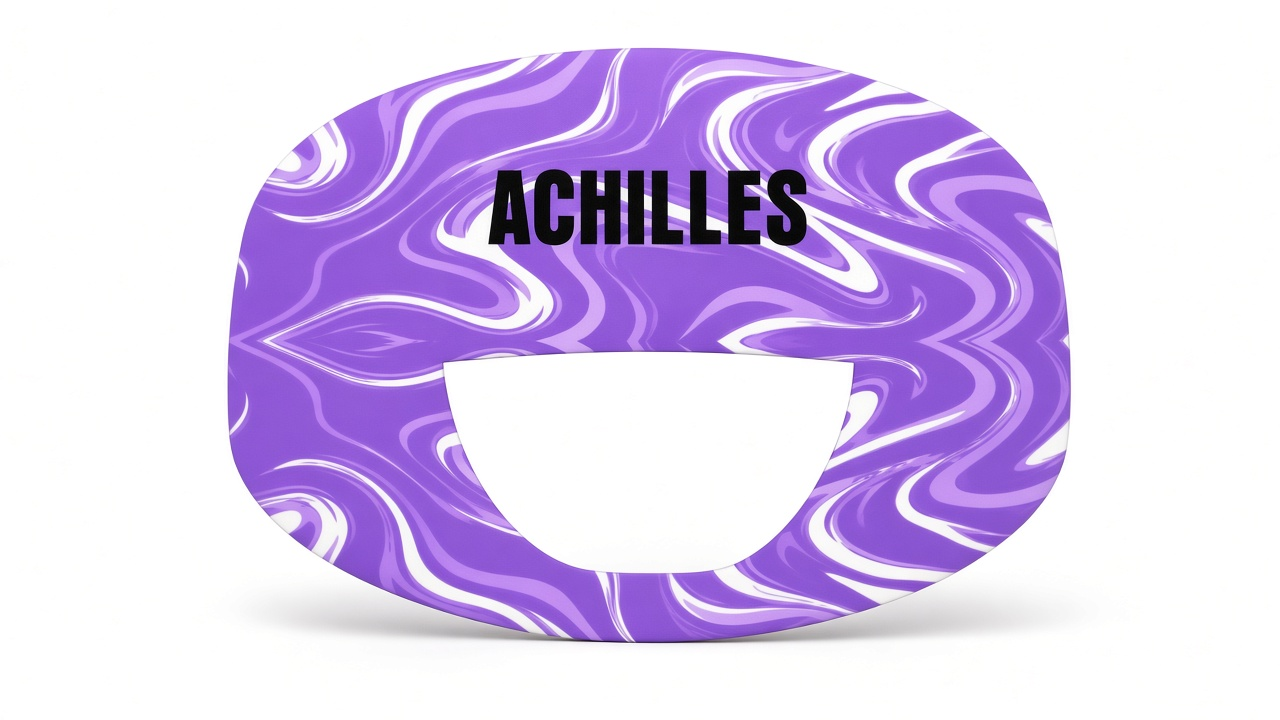
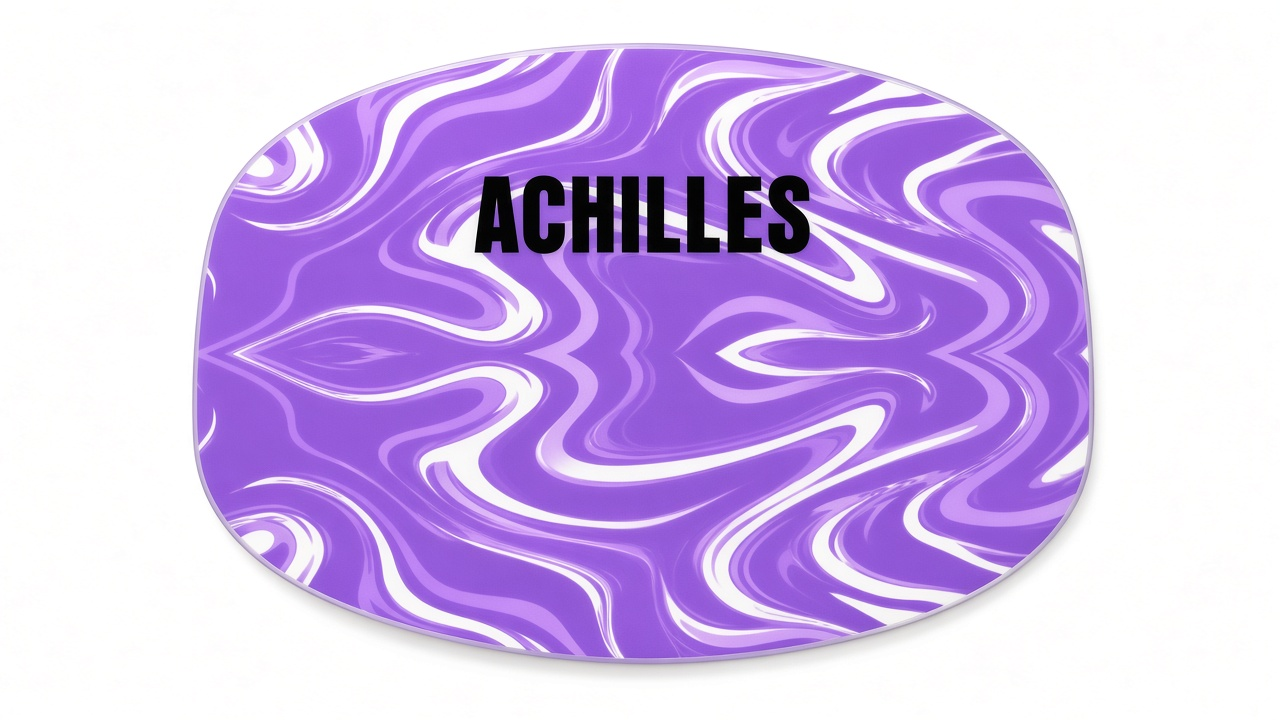
Remove decorative shell gap; add solid shells and natural-skin worn shots

diff --git a/src/App.tsx b/src/App.tsx
@@ -1,5 +1,5 @@
 import { useEffect, useState } from "react";
-import { shells, strapFeatures, type Shell } from "./data";
+import { shells, strapFeatures, wornGallery, type Shell } from "./data";
 
 export default function App() {
   const [activeId, setActiveId] = useState(shells[0].id);
@@ -21,6 +21,7 @@ export default function App() {
         <nav className="nav">
           <a href="#strap">Strap</a>
           <a href="#shells">Shells</a>
+          <a href="#worn">Worn</a>
           <a href="#system">System</a>
         </nav>
       </header>
@@ -30,6 +31,7 @@ export default function App() {
         <StrapSection />
         <ShellsSection active={active} onSelect={setActiveId} />
         <WornSection shell={active} />
+        <WornGallerySection />
         <SystemSection />
       </main>
 
@@ -126,8 +128,8 @@ function ShellsSection({
       <div className="section-head">
         <h2>Five fashion shells</h2>
         <p>
-          Snap-on covers pulled from ACHILLES pattern and logo language —
-          rainbow waves, marble swirls, warrior marks.
+          Solid continuous shells — no decorative cutout. Patterns and logos
+          from ACHILLES: rainbow waves, marble swirls, warrior marks.
         </p>
       </div>
 
@@ -203,9 +205,6 @@ function ShellsSection({
 }
 
 function WornSection({ shell }: { shell: Shell }) {
-  const wornImage = shell.wornImage ?? shell.image;
-  const isFlat = !shell.wornImage;
-
   return (
     <section className="section worn">
       <div className="worn-panel">
@@ -213,8 +212,8 @@ function WornSection({ shell }: { shell: Shell }) {
           <h2>On court</h2>
           <p>
             Chassis stays black and quiet. The{" "}
-            <em>{shell.name}</em> shell carries the brand — swap it when the
-            uniform changes.
+            <em>{shell.name}</em> shell carries the brand — continuous face, no
+            fake gap. Support comes from the inner pad on the tendon.
           </p>
           <ul>
             <li>Sits below the kneecap, not around the whole joint</li>
@@ -222,17 +221,35 @@ function WornSection({ shell }: { shell: Shell }) {
             <li>Shells remove for wash or travel without tools</li>
           </ul>
         </div>
-        <figure className={`worn-shot ${isFlat ? "flat" : ""}`}>
+        <figure className="worn-shot">
           <img
             key={shell.id}
-            src={wornImage}
-            alt={
-              isFlat
-                ? `${shell.name} snap-on shell`
-                : `ACHILLES strap worn with ${shell.name} shell`
-            }
+            src={shell.wornImage}
+            alt={`ACHILLES strap worn with ${shell.name} shell on a human knee`}
           />
         </figure>
+      </div>
+    </section>
+  );
+}
+
+function WornGallerySection() {
+  return (
+    <section className="section gallery" id="worn">
+      <div className="section-head">
+        <h2>On a real knee</h2>
+        <p>
+          Same chassis, five solid shells — worn below the patella on natural
+          skin. No decorative cutout; the pad does the work from the inside.
+        </p>
+      </div>
+      <div className="worn-gallery">
+        {wornGallery.map((shot) => (
+          <figure key={shot.src} className="gallery-card">
+            <img src={shot.src} alt={shot.label} />
+            <figcaption>{shot.label}</figcaption>
+          </figure>
+        ))}
       </div>
     </section>
   );
@@ -262,8 +279,9 @@ function SystemSection() {
           <div>
             <h3>Snap the shell</h3>
             <p>
-              Align the four posts. Press until you feel the click. The bottom
-              cutout clears the pad so pressure stays consistent.
+              Align the four posts. Press until you feel the click. The shell is
+              a solid face — the soft silicone pad on the inner liner is what
+              loads the tendon.
             </p>
           </div>
         </li>

diff --git a/src/data.ts b/src/data.ts
@@ -5,7 +5,7 @@ export type Shell = {
   logo: string;
   palette: string[];
   image: string;
-  wornImage?: string;
+  wornImage: string;
   notes: string;
 };
 
@@ -19,7 +19,7 @@ export const shells: Shell[] = [
     image: "/images/shell-01-prism-labyrinth.jpg",
     wornImage: "/images/achilles-strap-worn-prism.jpg",
     notes:
-      "Direct lift from the brand’s rainbow wave language. High-visibility court energy for night games and highlights.",
+      "Solid continuous shell face — no decorative cutout. Rainbow wave language for high-visibility court energy.",
   },
   {
     id: "violet",
@@ -30,7 +30,7 @@ export const shells: Shell[] = [
     image: "/images/shell-02-violet-marble.jpg",
     wornImage: "/images/achilles-strap-worn-violet.jpg",
     notes:
-      "Cleaner, more fashion-forward colorway. Reads as accessory first, support second.",
+      "Fashion-first colorway on a continuous oval shell. Reads as kit, not a brace.",
   },
   {
     id: "spartan",
@@ -39,8 +39,9 @@ export const shells: Shell[] = [
     logo: "Spartan helmet",
     palette: ["#6D28D9", "#2563EB", "#F472B6", "#FACC15", "#FB923C"],
     image: "/images/shell-03-spartan-surge.jpg",
+    wornImage: "/images/achilles-strap-worn-spartan.jpg",
     notes:
-      "Aggressive game-day shell. Helmet mark sits above the cutout so it stays readable when strapped.",
+      "Game-day shell. Helmet mark centered on a solid face so it stays readable when strapped.",
   },
   {
     id: "agate",
@@ -51,7 +52,7 @@ export const shells: Shell[] = [
     image: "/images/shell-04-horus-agate.jpg",
     wornImage: "/images/achilles-strap-worn-agate.jpg",
     notes:
-      "Premium dark colorway for travel kits and pro looks. Gold veining adds jewelry-level finish.",
+      "Premium dark colorway. Gold veining on a continuous shell — support comes from the inner pad, not a cutout.",
   },
   {
     id: "electric",
@@ -60,8 +61,44 @@ export const shells: Shell[] = [
     logo: "Boxed A",
     palette: ["#1E3A8A", "#2563EB", "#22D3EE", "#DB2777", "#F472B6"],
     image: "/images/shell-05-electric-a.jpg",
+    wornImage: "/images/achilles-strap-worn-electric.jpg",
     notes:
-      "Minimal brand hit over maximal pattern. Matches the streetwear pant color story.",
+      "Minimal brand hit over maximal pattern. Solid shell face matches the streetwear pant color story.",
+  },
+];
+
+export const wornGallery = [
+  {
+    src: "/images/achilles-strap-worn-prism.jpg",
+    label: "Prism Labyrinth · side view",
+  },
+  {
+    src: "/images/worn-prism-front.jpg",
+    label: "Prism Labyrinth · front view",
+  },
+  {
+    src: "/images/achilles-strap-worn-violet.jpg",
+    label: "Violet Marble · side view",
+  },
+  {
+    src: "/images/worn-violet-bent.jpg",
+    label: "Violet Marble · ready stance",
+  },
+  {
+    src: "/images/achilles-strap-worn-spartan.jpg",
+    label: "Spartan Surge · side view",
+  },
+  {
+    src: "/images/worn-spartan-inner.jpg",
+    label: "Spartan Surge · wrap detail",
+  },
+  {
+    src: "/images/achilles-strap-worn-agate.jpg",
+    label: "Horus Agate · side view",
+  },
+  {
+    src: "/images/achilles-strap-worn-electric.jpg",
+    label: "Electric A · side view",
   },
 ];
 
@@ -80,11 +117,11 @@ export const strapFeatures = [
   },
   {
     title: "Soft silicone pad",
-    body: "Contoured pressure pad targets the patellar tendon — support without thick neoprene bulk.",
+    body: "Contoured pressure pad on the inner face targets the patellar tendon — that is the therapeutic mechanism, not a shell cutout.",
   },
   {
     title: "Four-post snap system",
-    body: "Shells click onto the chassis in seconds. Swap colorways between warmups and match play.",
+    body: "Continuous solid shells click onto the chassis. No decorative gap — pattern runs edge to edge.",
   },
   {
     title: "Low-bulk closure",

diff --git a/src/styles.css b/src/styles.css
@@ -474,6 +474,32 @@ a {
   padding: 0;
 }
 
+.worn-gallery {
+  display: grid;
+  grid-template-columns: repeat(4, 1fr);
+  gap: 0.75rem;
+}
+
+.gallery-card {
+  margin: 0;
+}
+
+.gallery-card img {
+  width: 100%;
+  aspect-ratio: 3 / 4;
+  object-fit: cover;
+  background: #d5dde6;
+}
+
+.gallery-card figcaption {
+  margin-top: 0.5rem;
+  font-size: 0.72rem;
+  font-weight: 600;
+  letter-spacing: 0.06em;
+  text-transform: uppercase;
+  color: var(--ink-soft);
+}
+
 .worn-panel {
   display: grid;
   grid-template-columns: 0.9fr 1.1fr;
@@ -663,6 +689,10 @@ a {
   .spec-strip,
   .feature-list {
     grid-template-columns: 1fr;
+  }
+
+  .worn-gallery {
+    grid-template-columns: repeat(2, 1fr);
   }
 
   .shell-grid {
